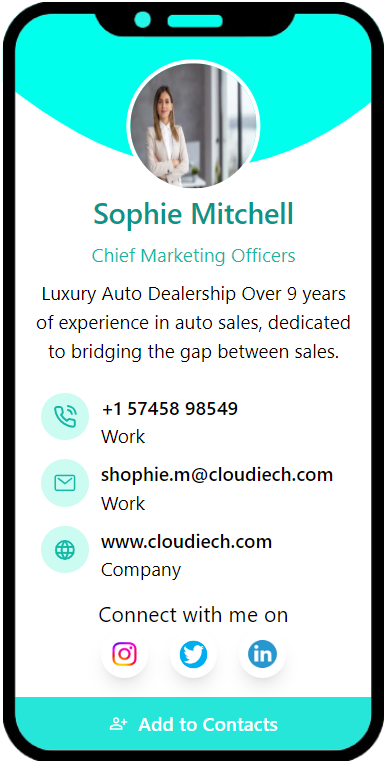
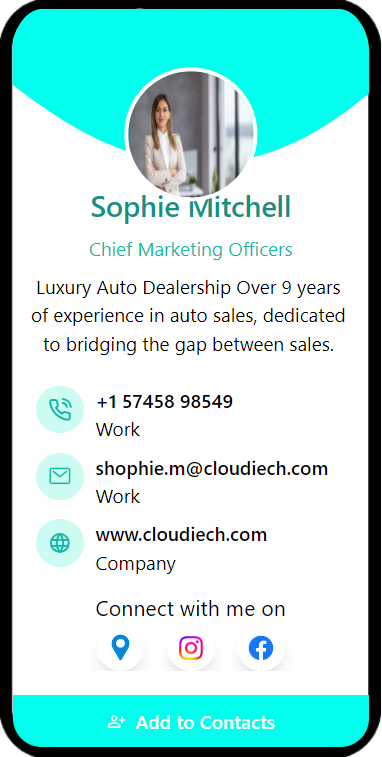
responsive design

diff --git a/src/components/PersonalCard/PersonalContactCard/index.js b/src/components/PersonalCard/PersonalContactCard/index.js
@@ -100,59 +100,62 @@ END
 
   return (
     <div className="flex flex-col justify-center items-center h-0 md:h-screen overflow-y-hidden">
-      <div>
-        <div className="flex justify-center">
-          <div className="absolute h-full responsive">
-            <svg
-              id="wave"
-              style={{
-                transform: "rotate(180deg)",
-                transition: "0.3s",
-                width: "100%",
-                height: "auto",
-              }}
-              viewBox="1110 0 200 145"
-              version="1.1"
-              xmlns="http://www.w3.org/2000/svg"
-              className="w-full h-auto rounded-none md:rounded-2"
-            >
-              <defs>
-                <linearGradient id="sw-gradient-0">
-                  <stop
-                    stop-color={
-                      values?.backgroundcolor
-                        ? values?.backgroundcolor
-                        : cardData?.backgroundcolor
-                        ? cardData?.backgroundcolor
-                        : "#00ffec"
-                    }
-                    offset="0%"
-                  ></stop>
-                </linearGradient>
-              </defs>
-              <path
-                style={{ transform: "translate(0, 0px)", opacity: 1 }}
-                fill="url(#sw-gradient-0)"
-                d="M0,98L26.7,89.8C53.3,82,107,65,160,57.2C213.3,49,267,49,320,98C373.3,147,427,245,480,310.3C533.3,376,587,408,640,367.5C693.3,327,747,212,800,187.8C853.3,163,907,229,960,220.5C1013.3,212,1067,131,1120,89.8C1173.3,49,1227,49,1280,81.7C1333.3,114,1387,180,1440,171.5C1493.3,163,1547,82,1600,57.2C1653.3,33,1707,65,1760,114.3C1813.3,163,1867,229,1920,277.7C1973.3,327,2027,359,2080,334.8C2133.3,310,2187,229,2240,220.5C2293.3,212,2347,278,2400,285.8C2453.3,294,2507,245,2560,204.2C2613.3,163,2667,131,2720,138.8C2773.3,147,2827,196,2880,179.7C2933.3,163,2987,82,3040,40.8C3093.3,0,3147,0,3200,24.5C3253.3,49,3307,98,3360,171.5C3413.3,245,3467,343,3520,318.5C3573.3,294,3627,147,3680,73.5C3733.3,0,3787,0,3813,0L3840,0L3840,490L3813.3,490C3786.7,490,3733,490,3680,490C3626.7,490,3573,490,3520,490C3466.7,490,3413,490,3360,490C3306.7,490,3253,490,3200,490C3146.7,490,3093,490,3040,490C2986.7,490,2933,490,2880,490C2826.7,490,2773,490,2720,490C2666.7,490,2613,490,2560,490C2506.7,490,2453,490,2400,490C2346.7,490,2293,490,2240,490C2186.7,490,2133,490,2080,490C2026.7,490,1973,490,1920,490C1866.7,490,1813,490,1760,490C1706.7,490,1653,490,1600,490C1546.7,490,1493,490,1440,490C1386.7,490,1333,490,1280,490C1226.7,490,1173,490,1120,490C1066.7,490,1013,490,960,490C906.7,490,853,490,800,490C746.7,490,693,490,640,490C586.7,490,533,490,480,490C426.7,490,373,490,320,490C266.7,490,213,490,160,490C106.7,490,53,490,27,490L0,490Z"
-              ></path>
-            </svg>
-            <div className="relative flex justify-center -mt-32">
-              <div className="absolute top-0 left-1/2 transform -translate-x-1/2 -translate-y-1/2 text-center">
-                <img
-                  src={
-                    values?.image
-                      ? URL.createObjectURL(values?.image)
-                      : cardData?.image
-                      ? cardData?.image
-                      : businesswomen
+      <div className="relative">
+        <img src={phone} className="hidden md:block w-80" alt="Phone" />
+      </div>
+      <div className="flex justify-center absolute">
+        <div className="h-full responsive">
+          <svg
+            id="wave"
+            style={{
+              transform: "rotate(180deg)",
+              transition: "0.3s",
+              width: "100%",
+              height: "auto",
+            }}
+            viewBox="1110 0 200 145"
+            version="1.1"
+            xmlns="http://www.w3.org/2000/svg"
+            className="w-full h-auto px-0 md:px-3 rounded-b2"
+          >
+            <defs>
+              <linearGradient id="sw-gradient-0">
+                <stop
+                  stop-color={
+                    values?.backgroundcolor
+                      ? values?.backgroundcolor
+                      : cardData?.backgroundcolor
+                      ? cardData?.backgroundcolor
+                      : "#00ffec"
                   }
-                  className="w-36 h-36 md:w-28 md:h-28 rounded-full border-4 border-white women"
-                  alt="Not Found"
-                />
-              </div>
+                  offset="0%"
+                ></stop>
+              </linearGradient>
+            </defs>
+            <path
+              style={{ transform: "translate(0, 0px)", opacity: 1 }}
+              fill="url(#sw-gradient-0)"
+              d="M0,98L26.7,89.8C53.3,82,107,65,160,57.2C213.3,49,267,49,320,98C373.3,147,427,245,480,310.3C533.3,376,587,408,640,367.5C693.3,327,747,212,800,187.8C853.3,163,907,229,960,220.5C1013.3,212,1067,131,1120,89.8C1173.3,49,1227,49,1280,81.7C1333.3,114,1387,180,1440,171.5C1493.3,163,1547,82,1600,57.2C1653.3,33,1707,65,1760,114.3C1813.3,163,1867,229,1920,277.7C1973.3,327,2027,359,2080,334.8C2133.3,310,2187,229,2240,220.5C2293.3,212,2347,278,2400,285.8C2453.3,294,2507,245,2560,204.2C2613.3,163,2667,131,2720,138.8C2773.3,147,2827,196,2880,179.7C2933.3,163,2987,82,3040,40.8C3093.3,0,3147,0,3200,24.5C3253.3,49,3307,98,3360,171.5C3413.3,245,3467,343,3520,318.5C3573.3,294,3627,147,3680,73.5C3733.3,0,3787,0,3813,0L3840,0L3840,490L3813.3,490C3786.7,490,3733,490,3680,490C3626.7,490,3573,490,3520,490C3466.7,490,3413,490,3360,490C3306.7,490,3253,490,3200,490C3146.7,490,3093,490,3040,490C2986.7,490,2933,490,2880,490C2826.7,490,2773,490,2720,490C2666.7,490,2613,490,2560,490C2506.7,490,2453,490,2400,490C2346.7,490,2293,490,2240,490C2186.7,490,2133,490,2080,490C2026.7,490,1973,490,1920,490C1866.7,490,1813,490,1760,490C1706.7,490,1653,490,1600,490C1546.7,490,1493,490,1440,490C1386.7,490,1333,490,1280,490C1226.7,490,1173,490,1120,490C1066.7,490,1013,490,960,490C906.7,490,853,490,800,490C746.7,490,693,490,640,490C586.7,490,533,490,480,490C426.7,490,373,490,320,490C266.7,490,213,490,160,490C106.7,490,53,490,27,490L0,490Z"
+            ></path>
+          </svg>
+          <div className="relative -mt-32 md:-mt-28">
+            <div className="absolute top-0 left-1/2 transform -translate-x-1/2 -translate-y-1/2 text-center">
+              <img
+                src={
+                  values?.image
+                    ? URL.createObjectURL(values?.image)
+                    : cardData?.image
+                    ? cardData?.image
+                    : businesswomen
+                }
+                className="w-36 h-36 md:w-28 md:h-28 rounded-full border-4 border-white women"
+                alt="Not Found"
+              />
+            </div>
+            <div className="scrollable-container h-35 md:h-29 overflow-y-auto overflow-x-hidden">
               <div className="text-center">
                 <p
-                  className="pt-14 text-2xl font-semibold"
+                  className="pt-20 md:pt-14 text-2xl font-semibold"
                   style={{
                     color: values?.fontcolor
                       ? values?.fontcolor
@@ -183,7 +186,7 @@ END
                     ? cardData?.title
                     : "Chief Marketing Officers "}
                 </p>
-                <p className="w-80 px-6">
+                <p className="w-full md:w-80 px-6 break-words">
                   {values?.description
                     ? values?.description
                     : cardData?.description
@@ -315,34 +318,30 @@ END
                     />
                   </div>
                 </div>
-
-                <div>
-                  <button
-                    className="flex justify-center items-center font-semibold w-96 md:w-full py-2.5 mt-8 md:mt-4 md:rounded-b-2 hover:cursor-pointer"
-                    style={{
-                      backgroundColor: values?.backgroundcolor
-                        ? values?.backgroundcolor
-                        : cardData?.backgroundcolor
-                        ? cardData?.backgroundcolor
-                        : "#00ffec",
-                      color: values?.fontcolor
-                        ? values?.fontcolor
-                        : cardData?.fontcolor
-                        ? cardData?.fontcolor
-                        : "rgb(255 255 255)",
-                    }}
-                    onClick={handleDownloadVCard}
-                  >
-                    <MdOutlinePersonAddAlt className="mr-2" />
-                    Add to Contacts
-                  </button>
-                </div>
               </div>
             </div>
+            <div className="flex justify-center">
+              <button
+                className="flex justify-center items-center font-semibold w-96 md:w-18 py-2.5 -mt-4 md:mt-5 md:rounded-b-3xl hover:cursor-pointer"
+                style={{
+                  backgroundColor: values?.backgroundcolor
+                    ? values?.backgroundcolor
+                    : cardData?.backgroundcolor
+                    ? cardData?.backgroundcolor
+                    : "#00ffec",
+                  color: values?.fontcolor
+                    ? values?.fontcolor
+                    : cardData?.fontcolor
+                    ? cardData?.fontcolor
+                    : "rgb(255 255 255)",
+                }}
+                onClick={handleDownloadVCard}
+              >
+                <MdOutlinePersonAddAlt className="mr-2" />
+                Add to Contacts
+              </button>
+            </div>
           </div>
-        </div>
-        <div className="relative z-10">
-          <img src={phone} className="hidden md:block w-80" alt="Phone" />
         </div>
       </div>
     </div>

diff --git a/src/index.css b/src/index.css
@@ -12,13 +12,12 @@ code {
     monospace;
 }
 
-@media (max-width: 426px){
+@media (max-width: 431px){
   .responsive{
     width: 100%;
-    margin-top: -1rem;
+    margin-top: 46rem;
   }
   .women{
-    margin-top: -3.5rem;
     width: 10rem;
   }
   /* .addcontact{margin-top: 6rem;} */
@@ -30,11 +29,12 @@ code {
 
 .scrollable-container {
   -ms-overflow-style: none; 
-  scrollbar-width: none; /* Firefox */
+  scrollbar-width: none;
 }
+/* .conatact-scrollable-container{max-height: 29rem;} */
 
-.scrollable-container::-webkit-scrollbar {
-  display: none; /* Chrome, Safari, and Opera */
+.scrollable-container::-webkit-scrollbar{
+  display: none;
 }
 
 @tailwind base;

diff --git a/tailwind.config.js b/tailwind.config.js
@@ -18,6 +18,7 @@ module.exports = {
       },
       width: {
         17: '17.3rem',
+        18: '18.7rem',
         p7: '7.5rem',
         20: '20rem'
       },
@@ -26,7 +27,9 @@ module.exports = {
         30: '40rem',
         42: '42.5rem',
         h30: '34rem',
-        19: '19rem'
+        35: '36.5rem',
+        29: '28.2rem',
+        19: '19rem',
       },
       margin: {
         m4: '4.5rem',
@@ -40,6 +43,7 @@ module.exports = {
       },
       borderRadius: {
         2: '2.5rem',
+        b2:'2.4rem',
         b1: '1.2rem',
         b5: '5rem',
       },

diff --git a/src/App.js b/src/App.js
@@ -67,7 +67,7 @@ function App() {
               element={<PersonalThemeCard />}
             />
 
-            <Route path="/PersonalLinksCard" element={<PersonalLinksCard/>} />
+            <Route path="/PersonalContactCard" element={<PersonalContactCard/>} />
           </Route>
         </Routes>
       </BrowserRouter>
